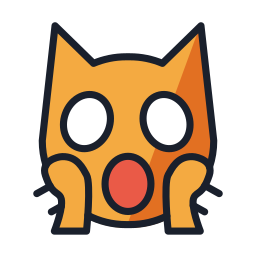
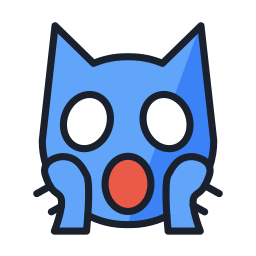
title的图标位置先占个坑，感觉图片不够大

Changed region(s): [[0.1562, 0.125, 0.8438, 0.9062]]

diff --git a/scripts/color-convert.js b/scripts/color-convert.js
@@ -7,163 +7,163 @@ const https = require("https");
 const fs = require("fs");
 const path = require("path");
 // 假设您已经安装并使用了 decompress
-const decompress = require("decompress"); 
+const decompress = require("decompress");
 
 // --- 配置常量 ---
 const TEMP_ZIP = "./temp-openmoji.zip";
-const TEMP_BASE_DIR = "./temp-openmoji"; 
+const TEMP_BASE_DIR = "./temp-openmoji";
 // ⬇ 路径修正：SVG 文件位于解压的根目录下
-const TEMP_DIR = TEMP_BASE_DIR; 
+const TEMP_DIR = TEMP_BASE_DIR;
 
 const OUTPUT_DIR = "./public/emojis/blue-svg-smileys";
 const SMILEYS_TEMP_DIR = "./temp-smileys-only";
-const METADATA_PATH = path.join(TEMP_BASE_DIR, "openmoji.json"); 
+const METADATA_PATH = path.join(TEMP_BASE_DIR, "openmoji.json");
 
 // Stable GitHub Releases URLs
 const OPENMOJI_SVG_URL =
-  "https://github.com/hfg-gmuend/openmoji/releases/latest/download/openmoji-svg-color.zip";
-const OPENMOJI_JSON_URL = 
-    "https://raw.githubusercontent.com/hfg-gmuend/openmoji/master/data/openmoji.json";
+  "https://github.com/hfg-gmuend/openmoji/releases/latest/download/openmoji-svg-color.zip";
+const OPENMOJI_JSON_URL =
+  "https://raw.githubusercontent.com/hfg-gmuend/openmoji/master/data/openmoji.json";
 
 // --- 颜色替换函数 ---
 
 // Force color replace (yellow/black → blue/dark blue)
 function convertToBlue(svgContent) {
-  return svgContent
-    // 核心黄色和浅色
-    .replace(/#fcea2b/gi, "#3B82F6") // 核心面部黄色
-    .replace(/#FFD83D/gi, "#3B82F6") // 典型黄色
-    .replace(/#FFDD00/gi, "#3B82F6") // OpenMoji 标准黄色
-    .replace(/#FFC900/gi, "#3B82F6") // 另一种面部主体黄
-    .replace(/#FFE657/gi, "#60A5FA") // 亮黄色/高光 -> 浅蓝色
-    .replace(/#FFE233/gi, "#60A5FA") // 另一种高亮/浅黄 -> 浅蓝色
+  return svgContent
+    // 核心黄色和浅色
+    .replace(/#fcea2b/gi, "#3B82F6") // 核心面部黄色
+    .replace(/#FFD83D/gi, "#3B82F6") // 典型黄色
+    .replace(/#FFDD00/gi, "#3B82F6") // OpenMoji 标准黄色
+    .replace(/#FFC900/gi, "#3B82F6") // 另一种面部主体黄
+    .replace(/#f4aa41/gi, "#60A5FA") // 亮黄色/高光 -> 浅蓝色
+    .replace(/#e27022/gi, "#3B82F6") // 另一种高亮/浅黄 -> 浅蓝色
 
-    // 深黄色和阴影
-    .replace(/#FFCC4D/gi, "#2563EB") // 深黄色 -> 深蓝色
-    .replace(/#FEE433/gi, "#1D4ED8") // 备份黄色 -> 更深的蓝色
-    .replace(/#FADB00/gi, "#2563EB") // 中度阴影黄 -> 深蓝色
-    .replace(/#FFB400/gi, "#1D4ED8") // 深橙黄/阴影 -> 更深的蓝色
-    
-    // 最深阴影和棕色轮廓
-    .replace(/#D99900/gi, "#1E3A8A") // 最深的棕/橙阴影 -> 深蓝阴影
-    
-    // 黑色线条替换
-    .replace(/#000000/gi, "#1A202C") // 替换纯黑线条为极深蓝灰
-    .replace(/#262626/gi, "#2C3647"); // 替换柔和黑线条为深蓝
+    // 深黄色和阴影
+    .replace(/#FFCC4D/gi, "#2563EB") // 深黄色 -> 深蓝色
+    .replace(/#FEE433/gi, "#1D4ED8") // 备份黄色 -> 更深的蓝色
+    .replace(/#FADB00/gi, "#2563EB") // 中度阴影黄 -> 深蓝色
+    .replace(/#FFB400/gi, "#1D4ED8") // 深橙黄/阴影 -> 更深的蓝色
+
+    // 最深阴影和棕色轮廓
+    .replace(/#D99900/gi, "#1E3A8A") // 最深的棕/橙阴影 -> 深蓝阴影
+
+    // 黑色线条替换
+    .replace(/#000000/gi, "#1A202C") // 替换纯黑线条为极深蓝灰
+    .replace(/#262626/gi, "#2C3647"); // 替换柔和黑线条为深蓝
 }
 
 // --- 实用工具函数 ---
 
 // Generic Redirect-Safe Downloader
 function downloadFile(url, dest) {
-  return new Promise((resolve, reject) => {
-    https.get(url, (res) => {
-      if (res.statusCode >= 300 && res.statusCode < 400 && res.headers.location) {
-        console.log("↪ Redirecting to:", res.headers.location);
-        return downloadFile(res.headers.location, dest).then(resolve).catch(reject);
-      }
+  return new Promise((resolve, reject) => {
+    https.get(url, (res) => {
+      if (res.statusCode >= 300 && res.statusCode < 400 && res.headers.location) {
+        console.log("↪ Redirecting to:", res.headers.location);
+        return downloadFile(res.headers.location, dest).then(resolve).catch(reject);
+      }
 
-      if (res.statusCode !== 200) {
-        return reject(new Error(`HTTP ${res.statusCode}`));
-      }
+      if (res.statusCode !== 200) {
+        return reject(new Error(`HTTP ${res.statusCode}`));
+      }
 
-      const file = fs.createWriteStream(dest);
-      res.pipe(file);
+      const file = fs.createWriteStream(dest);
+      res.pipe(file);
 
-      file.on("finish", () => file.close(resolve));
-    }).on("error", reject);
-  });
+      file.on("finish", () => file.close(resolve));
+    }).on("error", reject);
+  });
 }
 
 // Extract zip file using decompress
 function unzipFile(zipPath, extractTo) {
-    // decompress 返回一个 Promise，处理解压
-    return decompress(zipPath, extractTo);
+  // decompress 返回一个 Promise，处理解压
+  return decompress(zipPath, extractTo);
 }
 
 // Ensure directory exists
 function ensureDir(dir) {
-  if (!fs.existsSync(dir)) fs.mkdirSync(dir, { recursive: true });
+  if (!fs.existsSync(dir)) fs.mkdirSync(dir, { recursive: true });
 }
 
 // --- 主运行函数 ---
 
 async function run() {
-  try {
-    console.log("🎨 Converting OpenMoji SVG to blue theme...");
-    
-    // 确保创建基础解压目录
-    ensureDir(TEMP_BASE_DIR); 
-    ensureDir(OUTPUT_DIR);
-    ensureDir(SMILEYS_TEMP_DIR); 
+  try {
+    console.log("🎨 Converting OpenMoji SVG to blue theme...");
 
-    console.log("📥 Downloading SVG package...");
-    await downloadFile(OPENMOJI_SVG_URL, TEMP_ZIP);
+    // 确保创建基础解压目录
+    ensureDir(TEMP_BASE_DIR);
+    ensureDir(OUTPUT_DIR);
+    ensureDir(SMILEYS_TEMP_DIR);
 
-    console.log("📦 Extracting package...");
-    // 解压到基础目录 TEMP_BASE_DIR
-    await unzipFile(TEMP_ZIP, TEMP_BASE_DIR);
+    console.log("📥 Downloading SVG package...");
+    await downloadFile(OPENMOJI_SVG_URL, TEMP_ZIP);
 
-    console.log("📋 Downloading metadata...");
-    await downloadFile(OPENMOJI_JSON_URL, METADATA_PATH);
+    console.log("📦 Extracting package...");
+    // 解压到基础目录 TEMP_BASE_DIR
+    await unzipFile(TEMP_ZIP, TEMP_BASE_DIR);
 
-    const metaRaw = fs.readFileSync(METADATA_PATH, "utf8");
-    const meta = JSON.parse(metaRaw);
+    console.log("📋 Downloading metadata...");
+    await downloadFile(OPENMOJI_JSON_URL, METADATA_PATH);
 
-    console.log(`🔍 Found ${meta.length} emojis in metadata`);
+    const metaRaw = fs.readFileSync(METADATA_PATH, "utf8");
+    const meta = JSON.parse(metaRaw);
 
-    let processed = 0;
-    let skipped = 0;
-    let smileysCopied = 0; 
-    const TARGET_CATEGORY = "smileys-emotion"; 
+    console.log(`🔍 Found ${meta.length} emojis in metadata`);
 
-    console.log(`\n➡ Processing only "${TARGET_CATEGORY}" category...`);
+    let processed = 0;
+    let skipped = 0;
+    let smileysCopied = 0;
+    const TARGET_CATEGORY = "smileys-emotion";
 
-    for (const emoji of meta) {
-      const id = emoji.hexcode;
-      
-      // 1. 过滤：只处理目标类别
-      if (emoji.group !== TARGET_CATEGORY) {
-        skipped++; 
-        continue;
-      }
+    console.log(`\n➡ Processing only "${TARGET_CATEGORY}" category...`);
 
-      // ⬇ 路径现在指向正确的位置：./temp-openmoji/1F600.svg
-      const svgPath = path.join(TEMP_DIR, `${id}.svg`); 
+    for (const emoji of meta) {
+      const id = emoji.hexcode;
 
-      // 2. 检查文件是否存在
-      if (!fs.existsSync(svgPath)) {
-        // 现在只有当文件确实不存在时才跳过，而不是因为目录错误
-        skipped++;
-        continue;
-      }
-      
-      // 3. 复制原始 SVG 文件到暂存目录
-      const destPath = path.join(SMILEYS_TEMP_DIR, `${id}.svg`);
-      fs.copyFileSync(svgPath, destPath); 
-      smileysCopied++;
+      // 1. 过滤：只处理目标类别
+      if (emoji.group !== TARGET_CATEGORY) {
+        skipped++;
+        continue;
+      }
 
-      // 4. 颜色转换和保存
-      const svg = fs.readFileSync(svgPath, "utf8"); 
-      const blueSVG = convertToBlue(svg);
+      // ⬇ 路径现在指向正确的位置：./temp-openmoji/1F600.svg
+      const svgPath = path.join(TEMP_DIR, `${id}.svg`);
 
-      // 保存蓝色版本到 OUTPUT_DIR
-      fs.writeFileSync(path.join(OUTPUT_DIR, `${id}.svg`), blueSVG, "utf8");
-      processed++;
-    }
+      // 2. 检查文件是否存在
+      if (!fs.existsSync(svgPath)) {
+        // 现在只有当文件确实不存在时才跳过，而不是因为目录错误
+        skipped++;
+        continue;
+      }
 
-    console.log("\n🎉 Done!");
-    console.log(`📄 Smileys Copied (Original SVG): ${smileysCopied}`);
-    console.log(`✔ Processed (Color Converted): ${processed}`);
-    console.log(`✖ Skipped (Non-target/Missing):   ${meta.length - smileysCopied}`);
-    console.log(`📁 Saved blue SVGs to: ${OUTPUT_DIR}`);
-    
-    console.log("\n🧹 Cleaning temp files...");
-    fs.rmSync(TEMP_ZIP, { force: true });
-    // ⚠ 不删除 TEMP_BASE_DIR，因为它包含 openmoji.json 供 generate:data 使用
-  } catch (err) {
-    console.error("❌ Fatal error:", err);
-  }
+      // 3. 复制原始 SVG 文件到暂存目录
+      const destPath = path.join(SMILEYS_TEMP_DIR, `${id}.svg`);
+      fs.copyFileSync(svgPath, destPath);
+      smileysCopied++;
+
+      // 4. 颜色转换和保存
+      const svg = fs.readFileSync(svgPath, "utf8");
+      const blueSVG = convertToBlue(svg);
+
+      // 保存蓝色版本到 OUTPUT_DIR
+      fs.writeFileSync(path.join(OUTPUT_DIR, `${id}.svg`), blueSVG, "utf8");
+      processed++;
+    }
+
+    console.log("\n🎉 Done!");
+    console.log(`📄 Smileys Copied (Original SVG): ${smileysCopied}`);
+    console.log(`✔ Processed (Color Converted): ${processed}`);
+    console.log(`✖ Skipped (Non-target/Missing):   ${meta.length - smileysCopied}`);
+    console.log(`📁 Saved blue SVGs to: ${OUTPUT_DIR}`);
+
+    console.log("\n🧹 Cleaning temp files...");
+    fs.rmSync(TEMP_ZIP, { force: true });
+    // ⚠ 不删除 TEMP_BASE_DIR，因为它包含 openmoji.json 供 generate:data 使用
+  } catch (err) {
+    console.error("❌ Fatal error:", err);
+  }
 }
 
 run();

diff --git a/pages/index.tsx b/pages/index.tsx
@@ -28,10 +28,13 @@ const HomePage: React.FC<HomePageProps> = () => {
   return (
     <>
       <Head>
-        <title>Blue-Emoji.com - Explore Blue Emojis</title>
+        <title>Blue-Emoji.com - Explore Blue Emojis,smileys emotion blue emoji</title>
         <meta name="description" content="The definitive library of open-source emojis, colored for calm, loyalty, and serenity." />
         <meta name="viewport" content="width=device-width, initial-scale=1" />
+        
         <link rel="icon" href="/favicon.ico" />
+        <link rel="icon" type="image/png" sizes="32x32" href="/favicon.png" />
+        <link rel="apple-touch-icon" href="/apple-touch-icon.png" />
 
         {/* Font Awesome */}
         <link rel="stylesheet" href="https://cdnjs.cloudflare.com/ajax/libs/font-awesome/6.5.2/css/all.min.css" />

diff --git a/pages/emoji/[slug].tsx b/pages/emoji/[slug].tsx
@@ -87,7 +87,7 @@ const EmojiDetailPage: React.FC<EmojiDetailPageProps> = () => {
         <title> {emoji.name} Details | blue-emoji.com</title>
         <meta name="description" content={emoji.description || `Learn more about the ${emoji.name} emoji (${emoji.unicode})`} />
         <meta name="viewport" content="width=device-width, initial-scale=1" />
-        <link rel="icon" href={emoji.pngPath} type="image/png" sizes="64x64" />
+        <link rel="icon" href={emoji.svgPath} type="image/png" sizes="64x64" />
 
         <link rel="stylesheet" href="https://cdnjs.cloudflare.com/ajax/libs/font-awesome/6.5.2/css/all.min.css" />
       </Head>

diff --git a/components/Layout.tsx b/components/Layout.tsx
@@ -19,6 +19,7 @@ const Layout: React.FC<LayoutProps> = ({ children, title = 'Blue Emoji', descrip
     <div className="min-h-screen bg-gray-50 text-gray-800 font-inter">
       {/* Navigation Bar */}
       <header className="shadow-md bg-white sticky top-0 z-10">
+        
         <div className="max-w-7xl mx-auto px-4 sm:px-6 lg:px-8 py-4 flex justify-between items-center">
           <Link href="/" className="text-3xl font-black text-blue-600 tracking-tight">
             BLUE EMOJI
